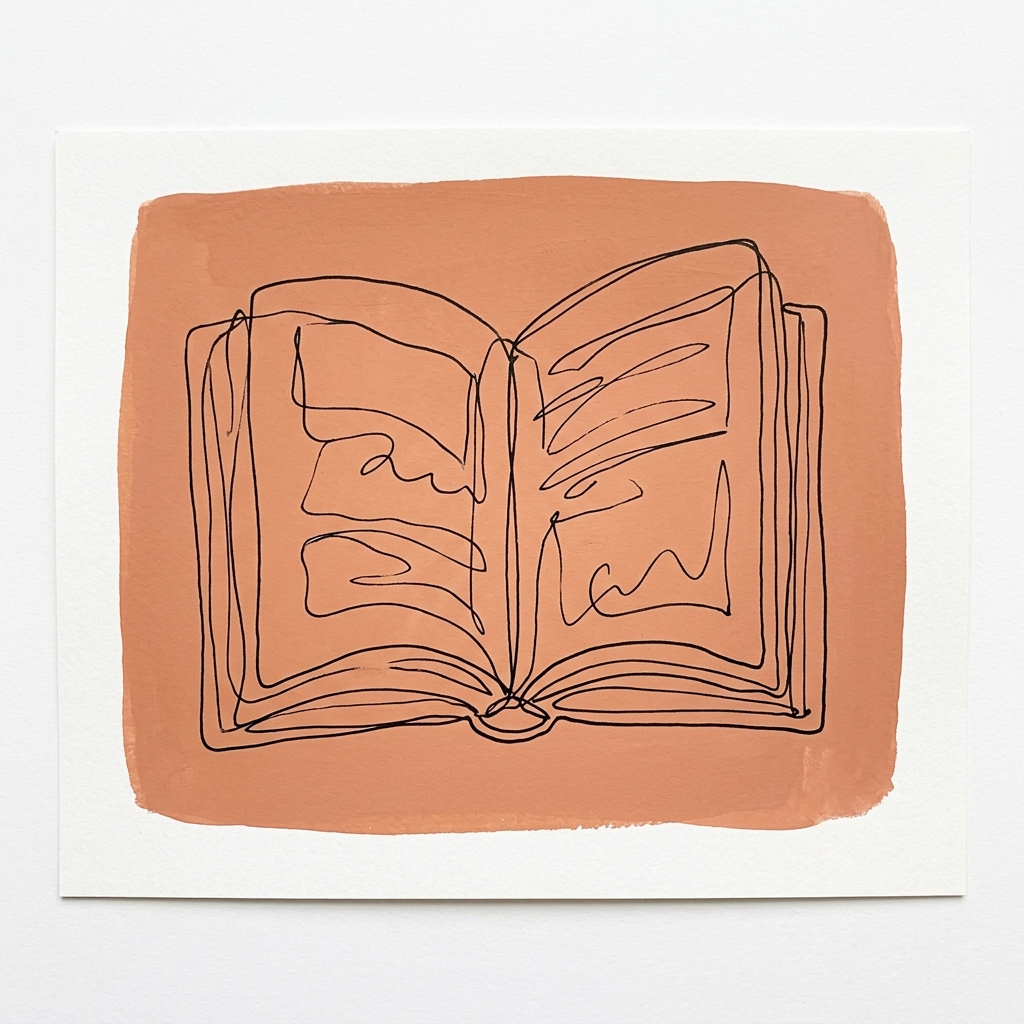
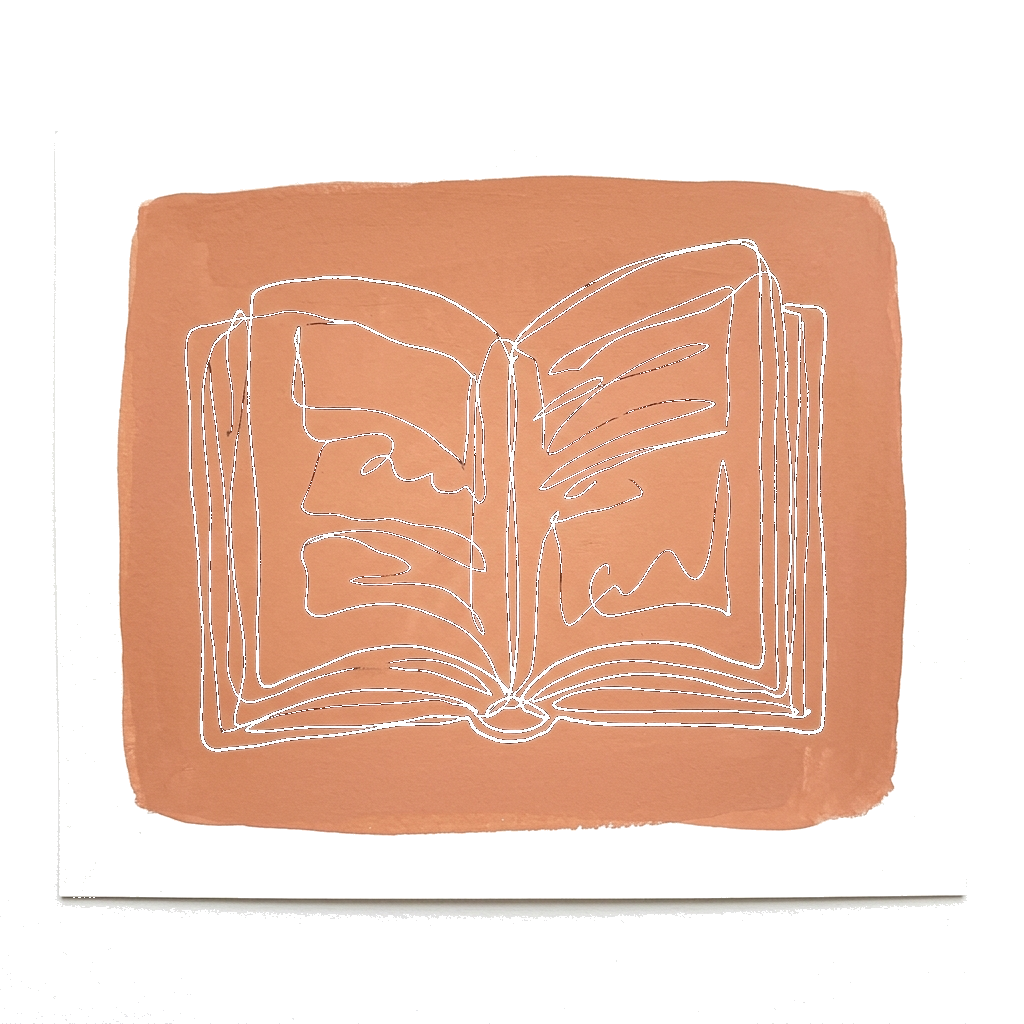
Design: Replace CSS blend mode hacks with true transparent PNGs containing original warm colors and white line art

diff --git a/radar/index.html b/radar/index.html
@@ -211,15 +211,11 @@
             display: flex;
             align-items: flex-end;
             justify-content: center;
-            /* Aplicar el mix-blend-mode en el contenedor para evitar el bug de WebKit con filter */
-            mix-blend-mode: screen;
         }
         .radar-split-art img {
             max-height: 240px;
             width: auto;
             max-width: 100%;
-            /* Invertir el color aquí */
-            filter: invert(1) contrast(1.1);
             opacity: 0.85;
             transition: opacity 0.3s;
             object-fit: contain;
